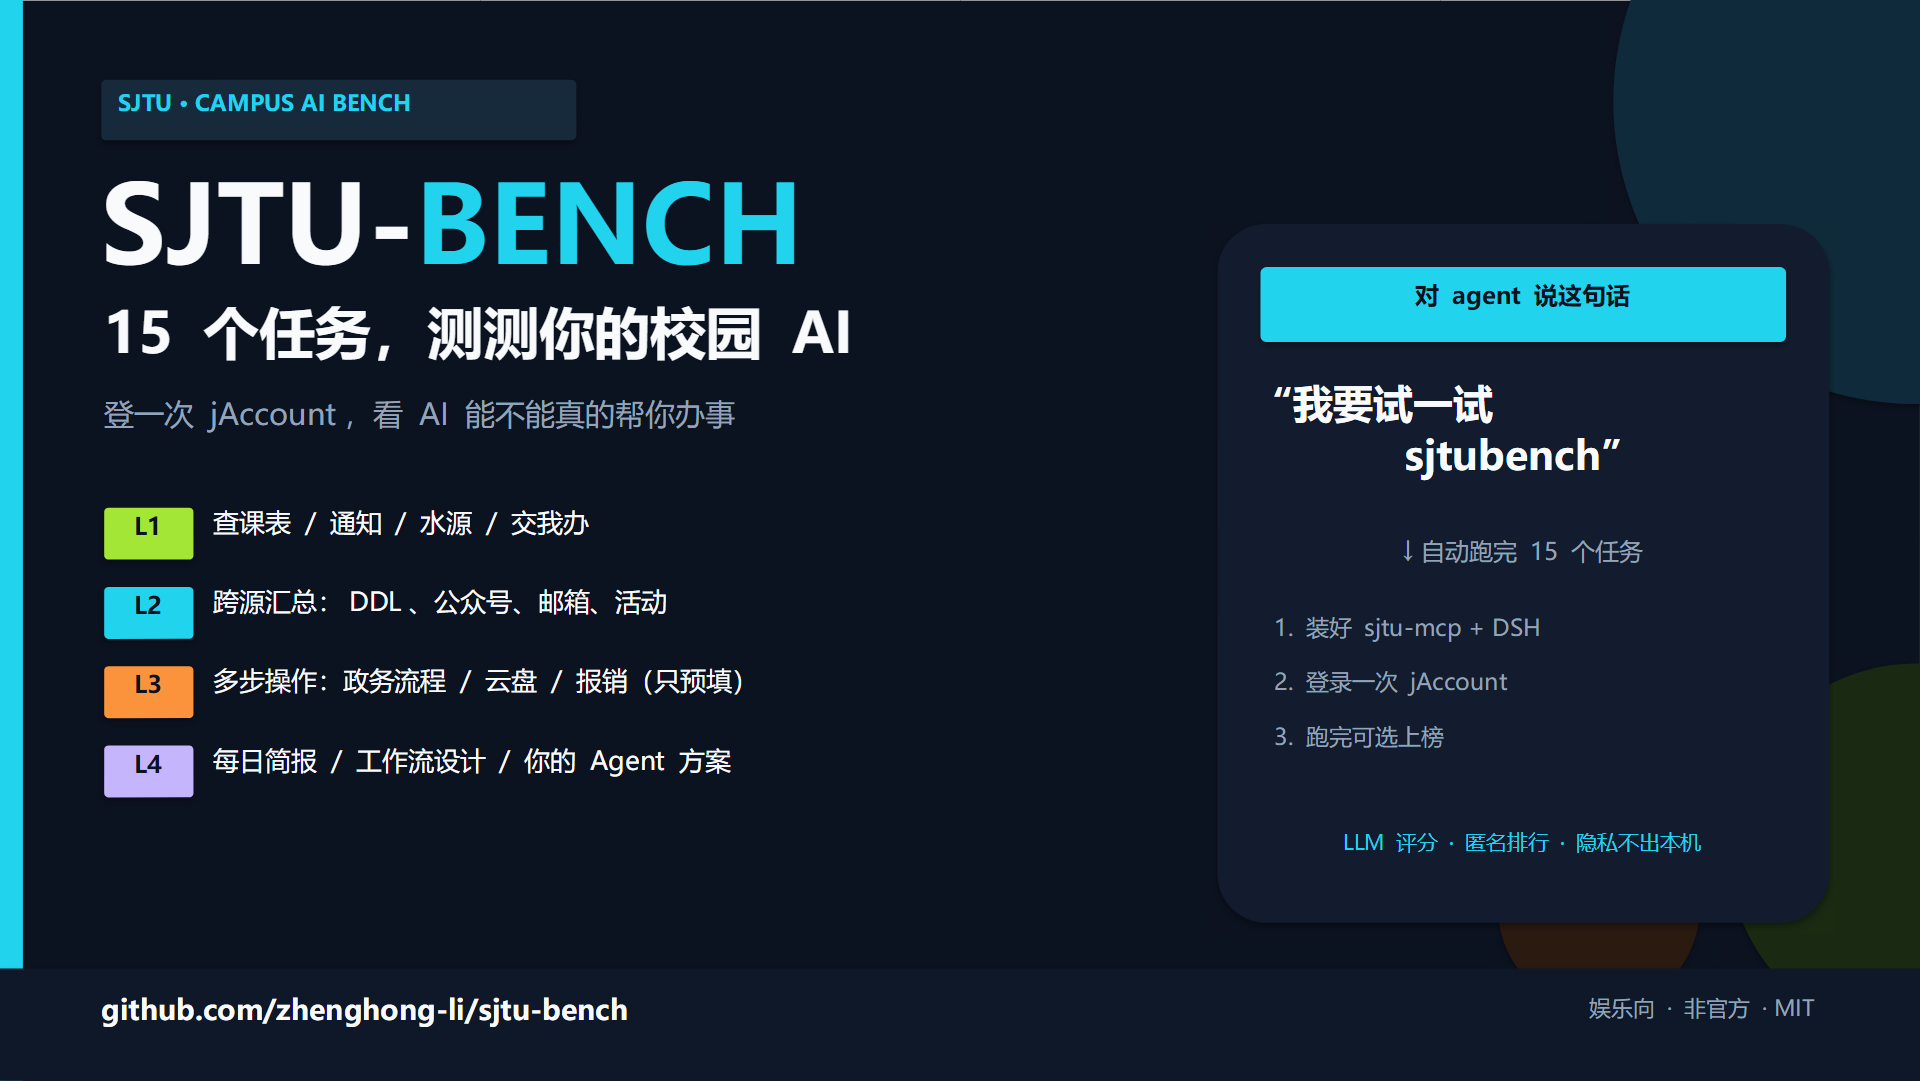
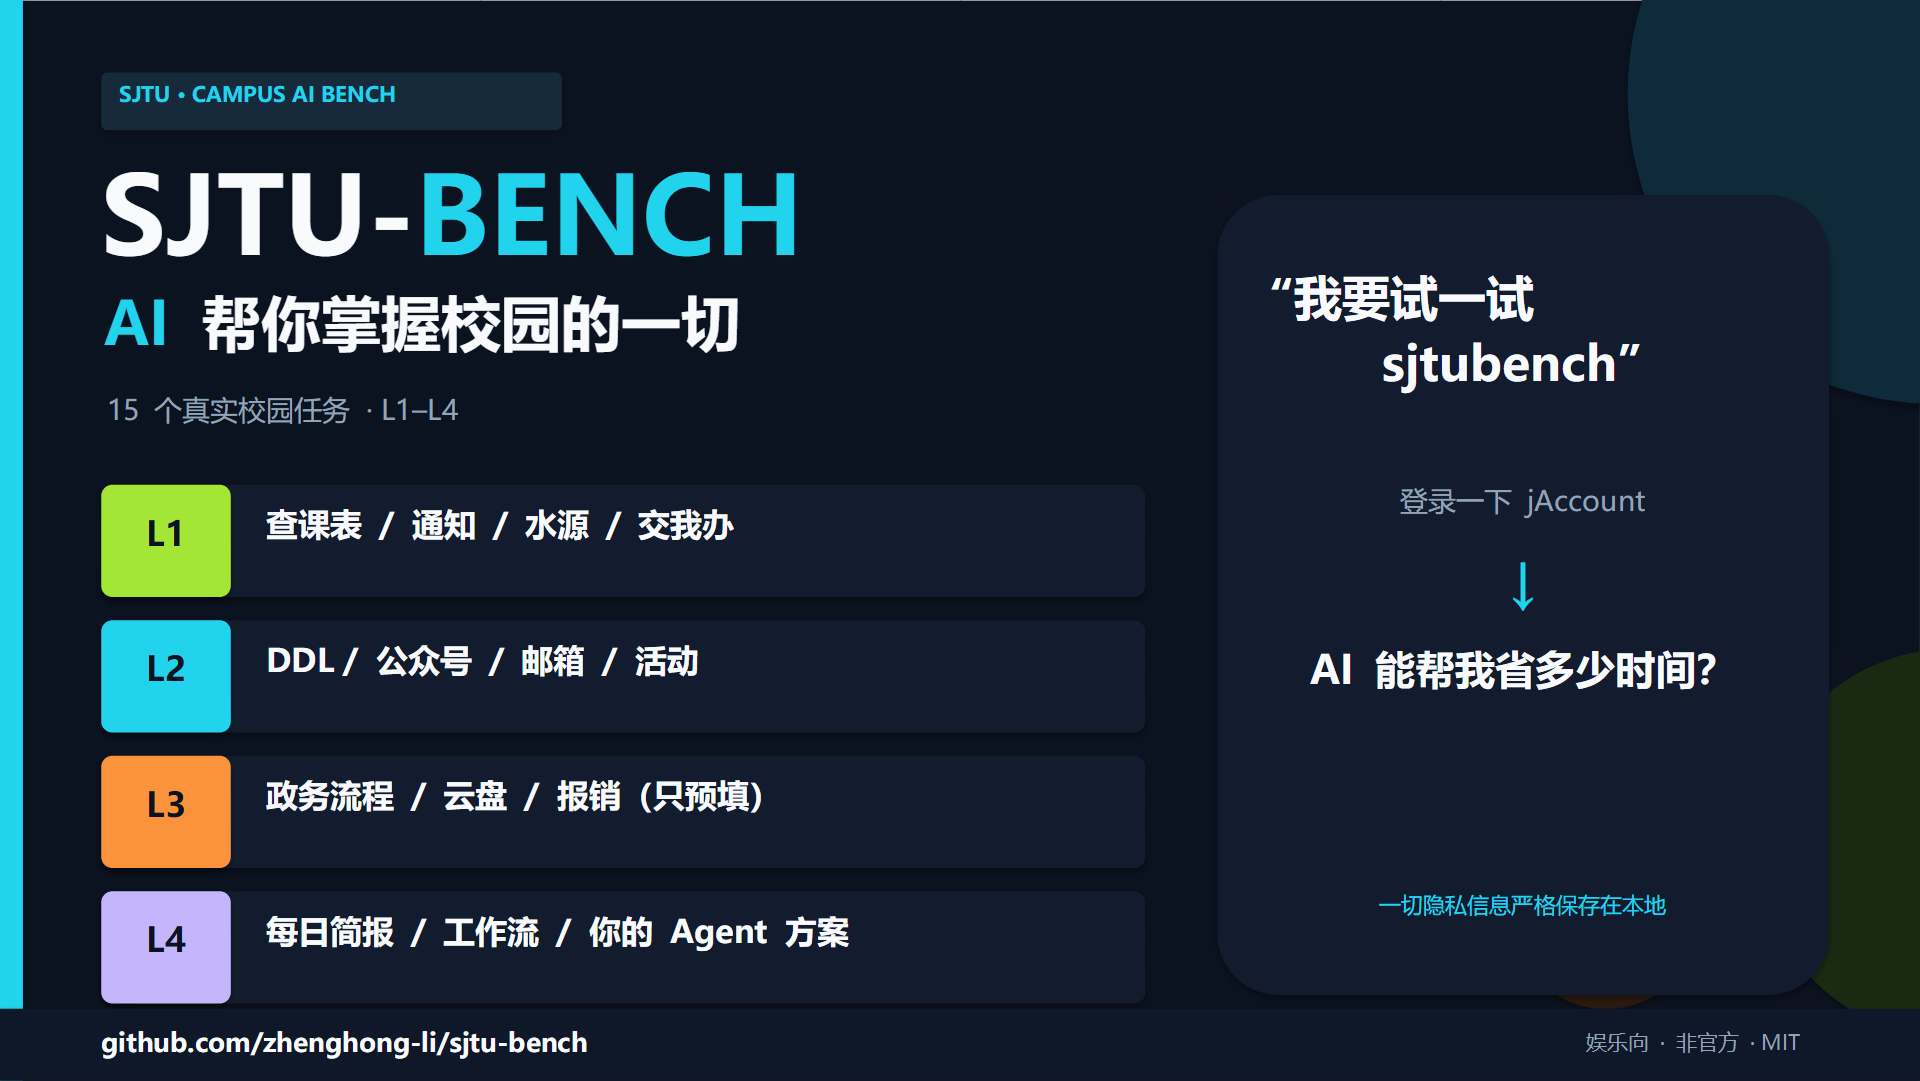
assets: simplify poster right card and enlarge task categories

diff --git a/assets/make-poster.py b/assets/make-poster.py
@@ -5,7 +5,6 @@ from pptx.dml.color import RGBColor
 from pptx.enum.text import PP_ALIGN, MSO_ANCHOR
 from pptx.enum.shapes import MSO_SHAPE
 from pptx.oxml.ns import qn
-import copy
 
 W, H = 13.333, 7.5
 BG = RGBColor(0x0B, 0x12, 0x20)
@@ -15,20 +14,21 @@ MUTED = RGBColor(0x94, 0xA3, 0xB8)
 CYAN = RGBColor(0x22, 0xD3, 0xEE)
 LIME = RGBColor(0xA3, 0xE6, 0x35)
 ORANGE = RGBColor(0xFB, 0x92, 0x3C)
+PURPLE = RGBColor(0xC4, 0xB5, 0xFD)
 FONT = "Microsoft YaHei"
 
 
-def set_font(run, size, bold=False, color=WHITE, font=FONT):
+def set_font(run, size, bold=False, color=WHITE):
     run.font.size = Pt(size)
     run.font.bold = bold
     run.font.color.rgb = color
-    run.font.name = font
+    run.font.name = FONT
     rPr = run._r.get_or_add_rPr()
     ea = rPr.find(qn("a:ea"))
     if ea is None:
         ea = rPr.makeelement(qn("a:ea"), {})
         rPr.append(ea)
-    ea.set("typeface", font)
+    ea.set("typeface", FONT)
 
 
 def textbox(slide, left, top, width, height, lines, size=16, color=WHITE,
@@ -53,19 +53,18 @@ def textbox(slide, left, top, width, height, lines, size=16, color=WHITE,
             text, opts = line, {}
         run = paragraph.add_run()
         run.text = text
-        set_font(run, opts.get("size", size), opts.get("bold", bold),
-                 opts.get("color", color))
+        set_font(run, opts.get("size", size), opts.get("bold", bold), opts.get("color", color))
     return box
 
 
-def rect(slide, left, top, width, height, fill, radius=True, line=None):
-    shape_type = MSO_SHAPE.ROUNDED_RECTANGLE if radius else MSO_SHAPE.RECTANGLE
-    shape = slide.shapes.add_shape(shape_type, Inches(left), Inches(top), Inches(width), Inches(height))
+def rect(slide, left, top, width, height, fill, radius=True):
+    type_ = MSO_SHAPE.ROUNDED_RECTANGLE if radius else MSO_SHAPE.RECTANGLE
+    shape = slide.shapes.add_shape(type_, Inches(left), Inches(top), Inches(width), Inches(height))
     shape.fill.solid()
     shape.fill.fore_color.rgb = fill
-    shape.line.fill.background() if line is None else None
+    shape.line.fill.background()
     if radius:
-        shape.adjustments[0] = 0.08
+        shape.adjustments[0] = 0.1
     return shape
 
 
@@ -84,63 +83,72 @@ slide = prs.slides.add_slide(prs.slide_layouts[6])
 slide.background.fill.solid()
 slide.background.fill.fore_color.rgb = BG
 
-# decorative shapes
-circle(slide, 11.2, -1.4, 4.2, RGBColor(0x0F, 0x2A, 0x3A))
-circle(slide, 12.0, 4.6, 2.6, RGBColor(0x1A, 0x2A, 0x12))
-circle(slide, 10.4, 5.6, 1.4, RGBColor(0x2A, 0x1A, 0x10))
+# background decoration
+circle(slide, 11.3, -1.5, 4.3, RGBColor(0x0F, 0x2A, 0x3A))
+circle(slide, 12.2, 4.5, 2.7, RGBColor(0x1A, 0x2A, 0x12))
+circle(slide, 10.5, 5.7, 1.3, RGBColor(0x2A, 0x1A, 0x10))
 rect(slide, 0.0, 0.0, 0.16, H, CYAN, radius=False)
-rect(slide, 0.7, 0.55, 3.3, 0.42, RGBColor(0x16, 0x2A, 0x3C))
-textbox(slide, 0.82, 0.62, 3.1, 0.3, "SJTU · CAMPUS AI BENCH", 11, CYAN, True)
 
-# title (single line, two runs)
-title = slide.shapes.add_textbox(Inches(0.7), Inches(1.08), Inches(9.4), Inches(0.9))
-title_tf = title.text_frame
-title_tf.word_wrap = False
-title_tf.margin_left = 0
-title_tf.margin_right = 0
-title_tf.margin_top = 0
-title_tf.margin_bottom = 0
-title_para = title_tf.paragraphs[0]
+# badge
+rect(slide, 0.7, 0.5, 3.2, 0.4, RGBColor(0x16, 0x2A, 0x3C))
+textbox(slide, 0.83, 0.56, 3.0, 0.3, "SJTU · CAMPUS AI BENCH", 10.5, CYAN, True)
+
+# left: title
+title = slide.shapes.add_textbox(Inches(0.7), Inches(1.02), Inches(8.0), Inches(0.9))
+tf = title.text_frame
+tf.word_wrap = False
+tf.margin_left = 0
+tf.margin_right = 0
+tf.margin_top = 0
+tf.margin_bottom = 0
+para = tf.paragraphs[0]
 for text, color in [("SJTU-", WHITE), ("BENCH", CYAN)]:
-    run = title_para.add_run()
+    run = para.add_run()
     run.text = text
     set_font(run, 54, True, color)
-textbox(slide, 0.72, 2.06, 8.4, 0.62, "15 个任务，测测你的校园 AI", 28, WHITE, True)
-textbox(slide, 0.72, 2.74, 8.3, 0.5, "登一次 jAccount，看 AI 能不能真的帮你办事", 15, MUTED)
 
-# left bullet list
-bullets = [
+# subtitle
+subtitle = slide.shapes.add_textbox(Inches(0.72), Inches(1.98), Inches(8.2), Inches(0.7))
+stf = subtitle.text_frame
+stf.word_wrap = False
+stf.margin_left = 0
+stf.margin_right = 0
+stf.margin_top = 0
+stf.margin_bottom = 0
+spara = stf.paragraphs[0]
+for text, color in [("AI ", CYAN), ("帮你掌握校园的一切", WHITE)]:
+    run = spara.add_run()
+    run.text = text
+    set_font(run, 30, True, color)
+textbox(slide, 0.74, 2.72, 8.0, 0.4, "15 个真实校园任务 · L1–L4", 14, MUTED)
+
+# left: four big task categories
+levels = [
     ("L1", "查课表 / 通知 / 水源 / 交我办", LIME),
-    ("L2", "跨源汇总：DDL、公众号、邮箱、活动", CYAN),
-    ("L3", "多步操作：政务流程 / 云盘 / 报销（只预填）", ORANGE),
-    ("L4", "每日简报 / 工作流设计 / 你的 Agent 方案", RGBColor(0xC4, 0xB5, 0xFD)),
+    ("L2", "DDL / 公众号 / 邮箱 / 活动", CYAN),
+    ("L3", "政务流程 / 云盘 / 报销（只预填）", ORANGE),
+    ("L4", "每日简报 / 工作流 / 你的 Agent 方案", PURPLE),
 ]
-y = 3.52
-for tag, desc, color in bullets:
-    rect(slide, 0.72, y, 0.62, 0.36, color)
-    textbox(slide, 0.72, y + 0.025, 0.62, 0.3, tag, 12, BG, True, PP_ALIGN.CENTER)
-    textbox(slide, 1.48, y - 0.01, 6.7, 0.42, desc, 13, WHITE)
-    y += 0.55
+y = 3.36
+for tag, desc, color in levels:
+    rect(slide, 0.7, y, 7.25, 0.78, CARD)
+    rect(slide, 0.7, y, 0.9, 0.78, color)
+    textbox(slide, 0.7, y + 0.19, 0.9, 0.4, tag, 17, BG, True, PP_ALIGN.CENTER)
+    textbox(slide, 1.85, y + 0.14, 5.9, 0.5, desc, 16, WHITE, True)
+    y += 0.94
 
-# right card: trigger
-rect(slide, 8.45, 1.55, 4.25, 4.85, CARD)
-rect(slide, 8.75, 1.85, 3.65, 0.52, CYAN)
-textbox(slide, 8.75, 1.94, 3.65, 0.32, "对 agent 说这句话", 12, BG, True, PP_ALIGN.CENTER)
-textbox(slide, 8.7, 2.62, 3.75, 1.0, "“我要试一试\nsjtubench”", 20, WHITE, True, PP_ALIGN.CENTER, 1.1)
-textbox(slide, 8.72, 3.72, 3.7, 0.4, "↓ 自动跑完 15 个任务", 12, MUTED, False, PP_ALIGN.CENTER)
-
-steps = ["1. 装好 sjtu-mcp + DSH", "2. 登录一次 jAccount", "3. 跑完可选上榜"]
-y2 = 4.25
-for step in steps:
-    textbox(slide, 8.85, y2, 3.5, 0.32, step, 11.5, MUTED)
-    y2 += 0.38
-
-textbox(slide, 8.72, 5.75, 3.7, 0.4, "LLM 评分 · 匿名排行 · 隐私不出本机", 10.5, CYAN, False, PP_ALIGN.CENTER)
+# right: simple trigger card
+rect(slide, 8.45, 1.35, 4.25, 5.55, CARD)
+textbox(slide, 8.65, 1.85, 3.85, 1.2, "“我要试一试\nsjtubench”", 24, WHITE, True, PP_ALIGN.CENTER, 1.15)
+textbox(slide, 8.7, 3.35, 3.75, 0.4, "登录一下 jAccount", 14, MUTED, False, PP_ALIGN.CENTER)
+textbox(slide, 8.7, 3.83, 3.75, 0.55, "↓", 28, CYAN, True, PP_ALIGN.CENTER)
+textbox(slide, 8.6, 4.47, 3.95, 0.8, "AI 能帮我省多少时间？", 20, WHITE, True, PP_ALIGN.CENTER)
+textbox(slide, 8.6, 6.18, 3.95, 0.4, "一切隐私信息严格保存在本地", 11, CYAN, False, PP_ALIGN.CENTER)
 
 # footer
-rect(slide, 0.0, 6.72, W, 0.78, RGBColor(0x0F, 0x18, 0x28), radius=False)
-textbox(slide, 0.7, 6.88, 7.5, 0.4, "github.com/zhenghong-li/sjtu-bench", 14, WHITE, True)
-textbox(slide, 8.6, 6.9, 4.0, 0.35, "娱乐向 · 非官方 · MIT", 11, MUTED, False, PP_ALIGN.RIGHT)
+rect(slide, 0.0, 7.0, W, 0.5, RGBColor(0x0F, 0x18, 0x28), radius=False)
+textbox(slide, 0.7, 7.12, 7.5, 0.3, "github.com/zhenghong-li/sjtu-bench", 13, WHITE, True)
+textbox(slide, 8.6, 7.14, 3.9, 0.28, "娱乐向 · 非官方 · MIT", 10.5, MUTED, False, PP_ALIGN.RIGHT)
 
 prs.save("assets/sjtu-bench-poster-16x9.pptx")
 print("saved assets/sjtu-bench-poster-16x9.pptx")

diff --git a/assets/make-poster-3x4.py b/assets/make-poster-3x4.py
@@ -2,7 +2,7 @@
 from pptx import Presentation
 from pptx.util import Inches, Pt
 from pptx.dml.color import RGBColor
-from pptx.enum.text import PP_ALIGN, MSO_ANCHOR
+from pptx.enum.text import PP_ALIGN
 from pptx.enum.shapes import MSO_SHAPE
 from pptx.oxml.ns import qn
 
@@ -63,7 +63,7 @@ def rect(slide, left, top, width, height, fill, radius=True):
     shape.fill.fore_color.rgb = fill
     shape.line.fill.background()
     if radius:
-        shape.adjustments[0] = 0.08
+        shape.adjustments[0] = 0.1
     return shape
 
 
@@ -82,9 +82,9 @@ slide = prs.slides.add_slide(prs.slide_layouts[6])
 slide.background.fill.solid()
 slide.background.fill.fore_color.rgb = BG
 
-circle(slide, 5.5, -1.2, 3.8, RGBColor(0x0F, 0x2A, 0x3A))
-circle(slide, 6.1, 6.1, 2.2, RGBColor(0x1A, 0x2A, 0x12))
-circle(slide, 5.6, 7.7, 1.5, RGBColor(0x2A, 0x1A, 0x10))
+circle(slide, 5.6, -1.2, 3.8, RGBColor(0x0F, 0x2A, 0x3A))
+circle(slide, 6.2, 6.3, 2.0, RGBColor(0x1A, 0x2A, 0x12))
+circle(slide, 5.7, 7.8, 1.4, RGBColor(0x2A, 0x1A, 0x10))
 rect(slide, 0.0, 0.0, W, 0.12, CYAN, radius=False)
 
 # badge
@@ -92,7 +92,7 @@ rect(slide, 0.55, 0.5, 2.9, 0.38, RGBColor(0x16, 0x2A, 0x3C))
 textbox(slide, 0.68, 0.56, 2.7, 0.28, "SJTU · CAMPUS AI BENCH", 10, CYAN, True)
 
 # title
-title = slide.shapes.add_textbox(Inches(0.55), Inches(1.08), Inches(6.5), Inches(1.9))
+title = slide.shapes.add_textbox(Inches(0.55), Inches(1.05), Inches(6.4), Inches(1.9))
 tf = title.text_frame
 tf.word_wrap = False
 tf.margin_left = 0
@@ -108,34 +108,47 @@ r2 = p2.add_run()
 r2.text = "BENCH"
 set_font(r2, 54, True, CYAN)
 
-textbox(slide, 0.58, 3.05, 6.3, 0.8, "15 个任务，\n测测你的校园 AI", 24, WHITE, True, PP_ALIGN.LEFT, 1.1)
-textbox(slide, 0.58, 4.0, 6.2, 0.4, "登一次 jAccount，让 AI 真的帮你办事", 13, MUTED)
+# subtitle
+sub = slide.shapes.add_textbox(Inches(0.58), Inches(2.95), Inches(6.3), Inches(0.55))
+stf = sub.text_frame
+stf.word_wrap = False
+stf.margin_left = 0
+stf.margin_right = 0
+stf.margin_top = 0
+stf.margin_bottom = 0
+sp = stf.paragraphs[0]
+for text, color in [("AI ", CYAN), ("帮你掌握校园的一切", WHITE)]:
+    run = sp.add_run()
+    run.text = text
+    set_font(run, 23, True, color)
+textbox(slide, 0.58, 3.55, 6.2, 0.3, "15 个真实校园任务 · L1–L4", 11.5, MUTED)
 
-# level cards
+# four big task categories
 levels = [
-    ("L1", "课表 / 通知 / 水源 / 交我办", LIME),
+    ("L1", "查课表 / 通知 / 水源 / 交我办", LIME),
     ("L2", "DDL / 公众号 / 邮箱 / 活动", CYAN),
     ("L3", "政务流程 / 云盘 / 报销（只预填）", ORANGE),
     ("L4", "每日简报 / 工作流 / 你的 Agent 方案", PURPLE),
 ]
-y = 4.65
+y = 3.98
 for tag, desc, color in levels:
-    rect(slide, 0.58, y, 0.6, 0.34, color)
-    textbox(slide, 0.58, y + 0.02, 0.6, 0.28, tag, 11, BG, True, PP_ALIGN.CENTER)
-    textbox(slide, 1.3, y - 0.01, 5.4, 0.38, desc, 11.5, WHITE)
-    y += 0.5
+    rect(slide, 0.55, y, 6.4, 0.62, CARD)
+    rect(slide, 0.55, y, 0.78, 0.62, color)
+    textbox(slide, 0.55, y + 0.15, 0.78, 0.32, tag, 14, BG, True, PP_ALIGN.CENTER)
+    textbox(slide, 1.55, y + 0.12, 5.2, 0.4, desc, 12.5, WHITE, True)
+    y += 0.74
 
-# trigger card
-rect(slide, 0.55, 6.85, 6.4, 2.15, CARD)
-rect(slide, 0.85, 7.08, 5.8, 0.44, CYAN)
-textbox(slide, 0.85, 7.16, 5.8, 0.28, "对 agent 说这句话", 11, BG, True, PP_ALIGN.CENTER)
-textbox(slide, 0.85, 7.7, 5.8, 0.85, "“我要试一试 sjtubench”", 18, WHITE, True, PP_ALIGN.CENTER)
-textbox(slide, 0.85, 8.55, 5.8, 0.3, "LLM 评分 · 匿名排行 · 隐私不出本机", 9.5, CYAN, False, PP_ALIGN.CENTER)
+# trigger card (only requested elements)
+rect(slide, 0.55, 6.95, 6.4, 2.17, CARD)
+textbox(slide, 0.7, 7.3, 6.1, 0.5, "“我要试一试 sjtubench”", 18, WHITE, True, PP_ALIGN.CENTER)
+textbox(slide, 0.7, 7.98, 6.1, 0.28, "登录一下 jAccount  ↓", 11, MUTED, False, PP_ALIGN.CENTER)
+textbox(slide, 0.7, 8.3, 6.1, 0.4, "AI 能帮我省多少时间？", 15, WHITE, True, PP_ALIGN.CENTER)
+textbox(slide, 0.7, 8.72, 6.1, 0.26, "一切隐私信息严格保存在本地", 9.5, CYAN, False, PP_ALIGN.CENTER)
 
 # footer
 rect(slide, 0.0, 9.3, W, 0.7, RGBColor(0x0F, 0x18, 0x28), radius=False)
-textbox(slide, 0.55, 9.44, 4.6, 0.3, "github.com/zhenghong-li/sjtu-bench", 11, WHITE, True)
-textbox(slide, 5.0, 9.45, 2.0, 0.28, "娱乐 · 非官方", 9, MUTED, False, PP_ALIGN.RIGHT)
+textbox(slide, 0.55, 9.45, 4.6, 0.3, "github.com/zhenghong-li/sjtu-bench", 10.5, WHITE, True)
+textbox(slide, 5.0, 9.46, 2.0, 0.28, "娱乐 · 非官方", 9, MUTED, False, PP_ALIGN.RIGHT)
 
 prs.save("assets/sjtu-bench-poster-3x4.pptx")
 print("saved assets/sjtu-bench-poster-3x4.pptx")
